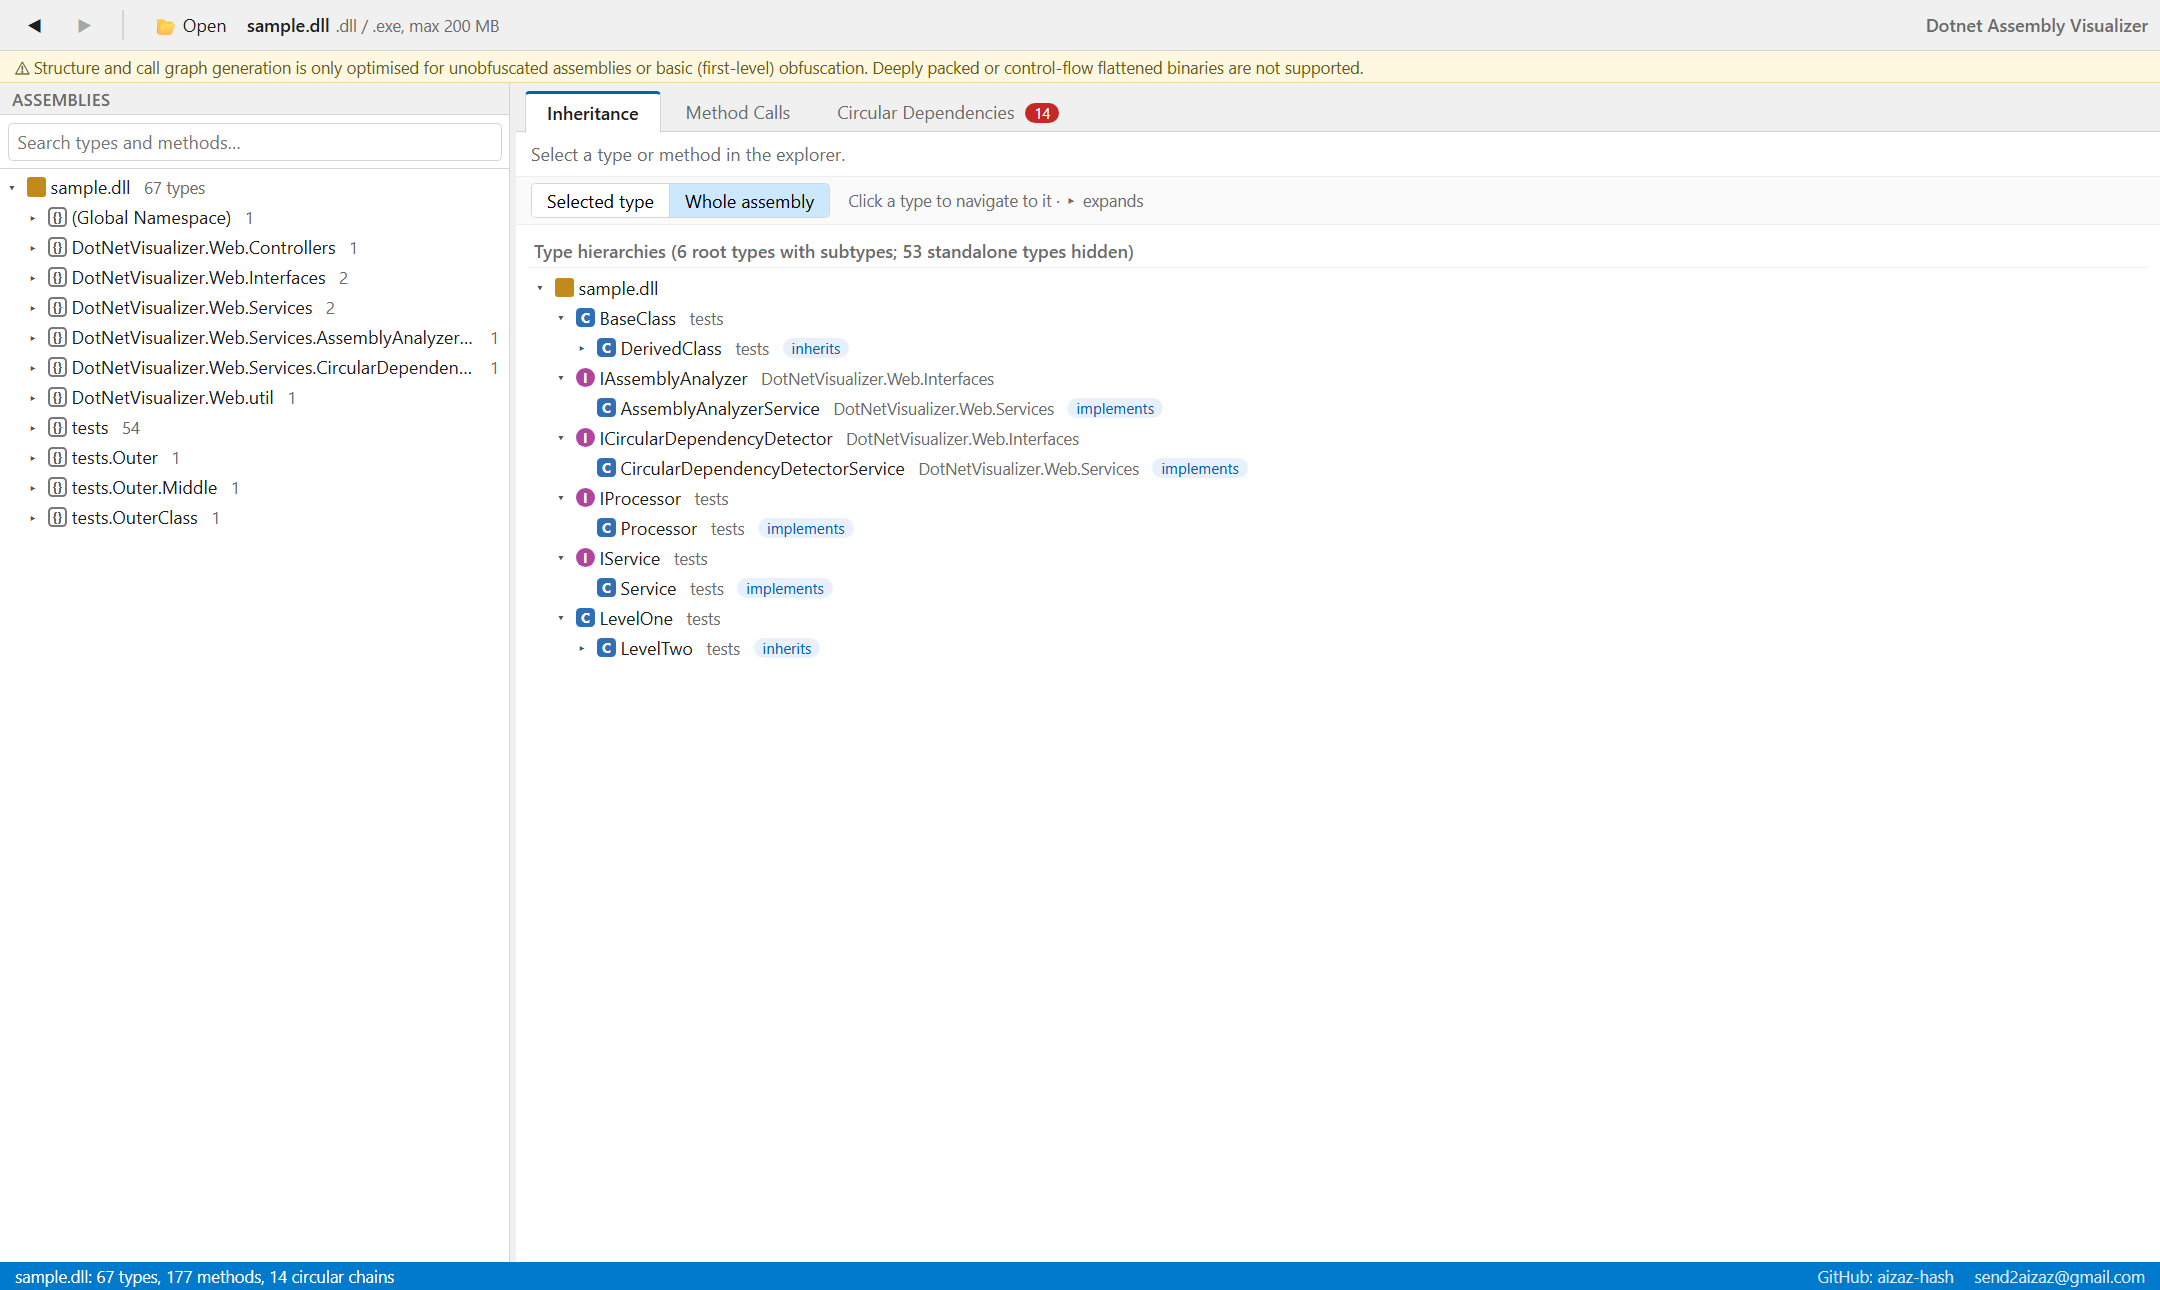
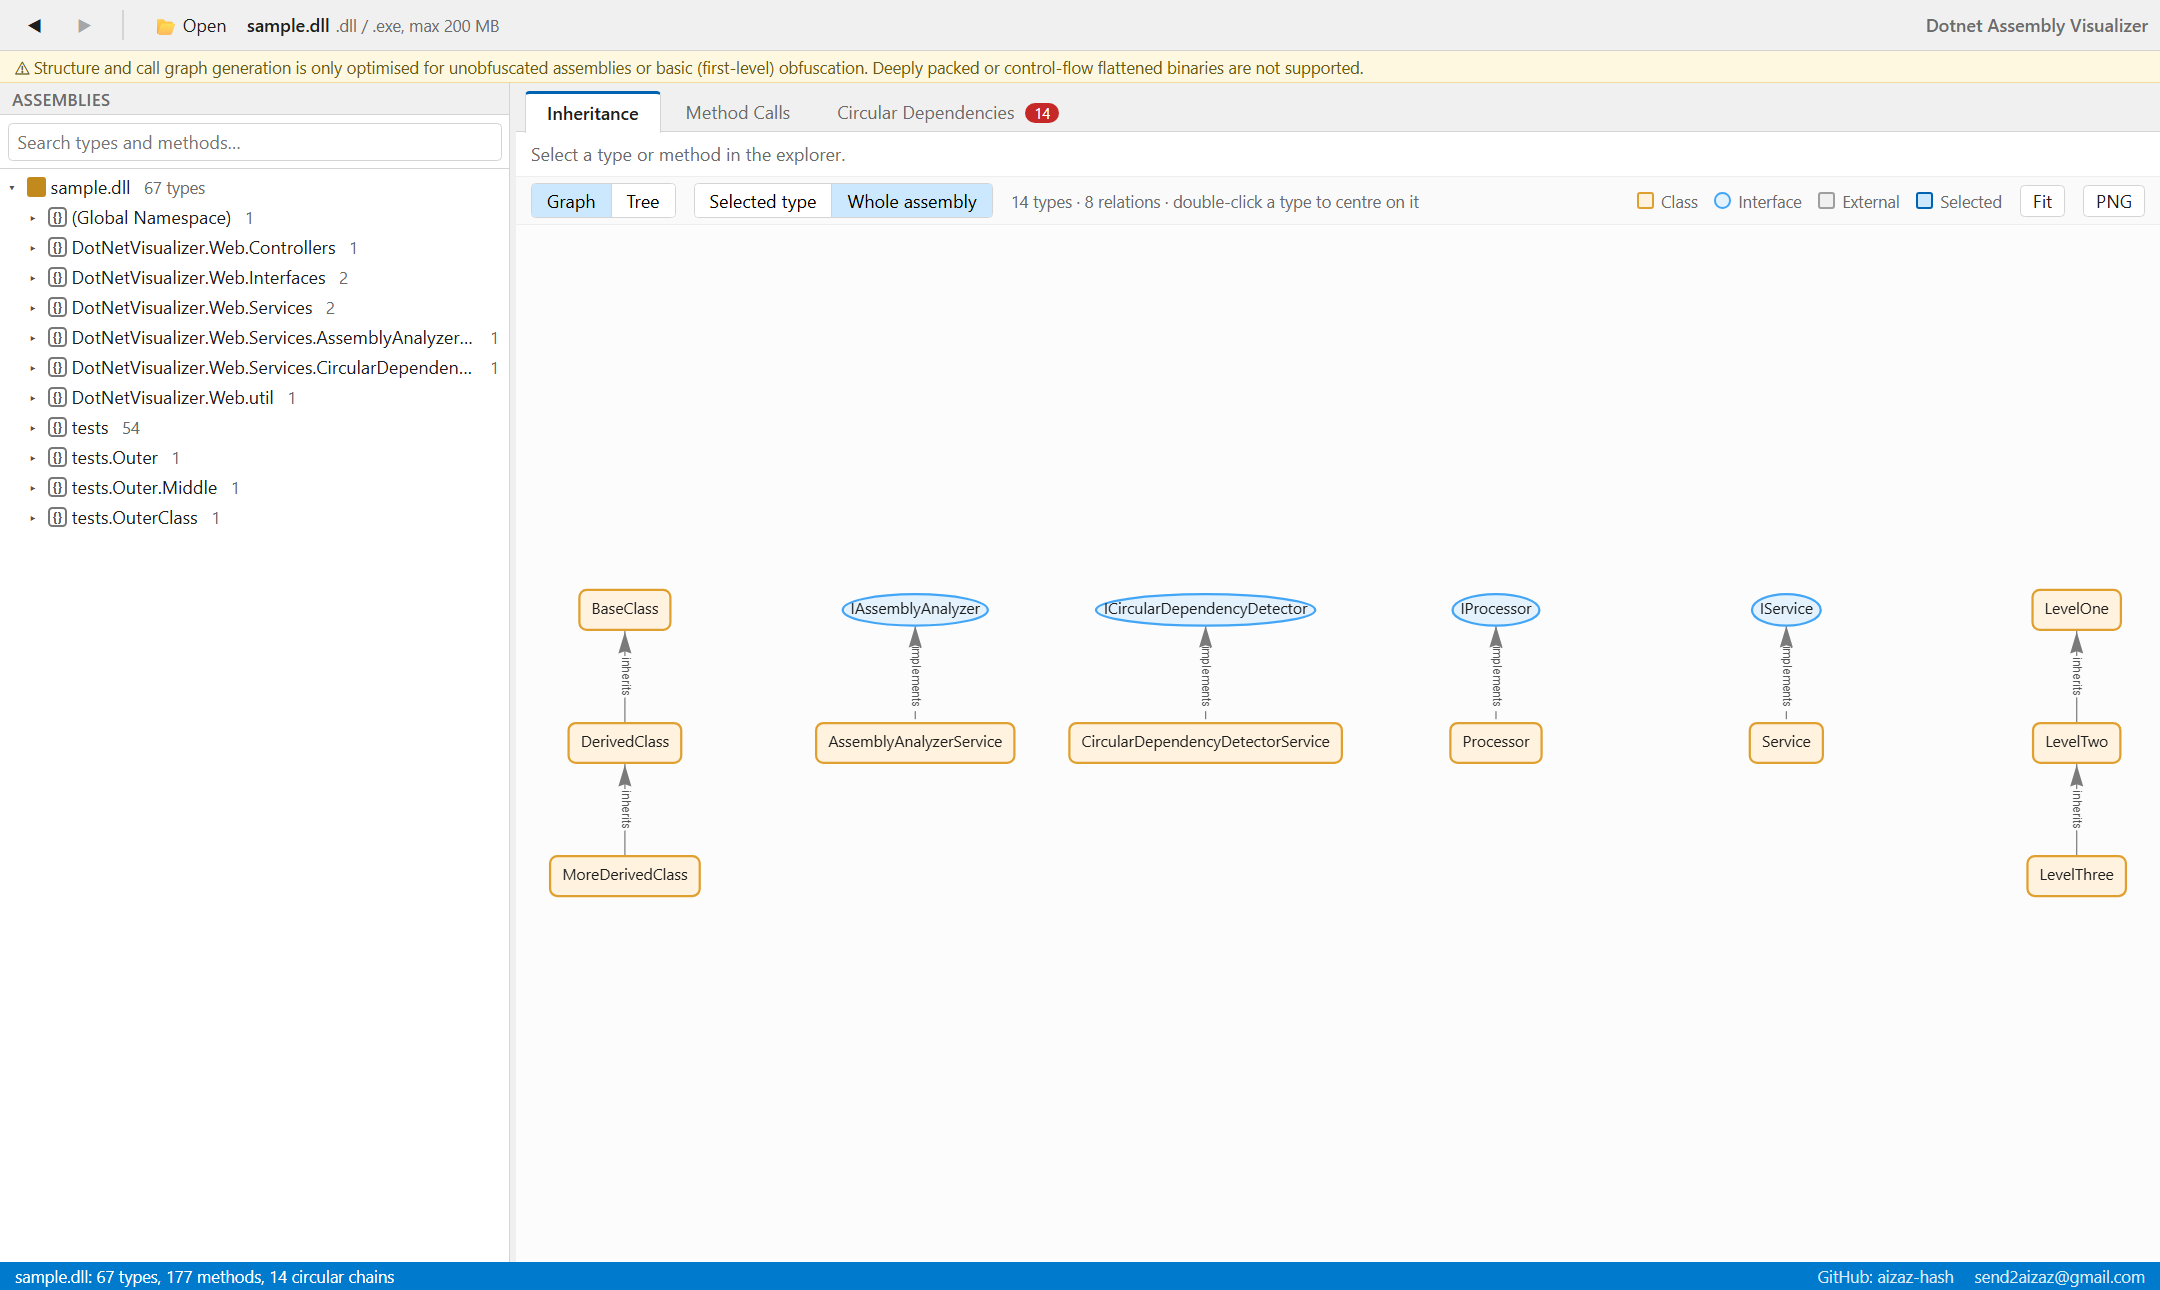
feat(ui): bring back the inheritance graph (Graph/Tree toggle)
The ILSpy-style redesign had replaced the vis-network inheritance graph with a tree. The inheritance view now draws a graph again: selected type with base types above and derived types below (depth 1-all), or the whole assembly (capped at 300 types), interfaces as ellipses, implements edges dashed, double-click to centre, Fit/PNG. The tree stays available via a toggle.
README text and the inheritance screenshots are updated.

diff --git a/wwwroot/js/app.js b/wwwroot/js/app.js
@@ -34,13 +34,15 @@ let cyclesOfMethod = new Map();    // methodId -> [cycle index]
 let cyclicEdges = new Set();       // "from\u0001to"
 
 // Navigation state
-let state = { view: 'inheritance', type: null, method: null, cycleMethod: null, cycleIdx: 0, inhMode: 'selected' };
+let state = { view: 'inheritance', type: null, method: null, cycleMethod: null, cycleIdx: 0, inhMode: 'selected', inhFormat: 'graph' };
 let history = [];
 let historyIdx = -1;
 
 // Graph instances
 let callNetwork = null;
 let cycleNetwork = null;
+let inhNetwork = null;
+const INH_MAX_NODES = 300;
 let chips = [];
 let explorerNodes = new Map();     // key -> tree handle
 let selectedExplorerKey = null;
@@ -408,7 +410,7 @@ function renderSearchResults(query) {
 
 function sameState(a, b) {
     return a.view === b.view && a.type === b.type && a.method === b.method &&
-        a.cycleMethod === b.cycleMethod && a.cycleIdx === b.cycleIdx && a.inhMode === b.inhMode;
+        a.cycleMethod === b.cycleMethod && a.cycleIdx === b.cycleIdx && a.inhMode === b.inhMode && a.inhFormat === b.inhFormat;
 }
 
 function navigate(patch, push = true) {
@@ -443,6 +445,8 @@ function applyState() {
     });
     byId('inhModeSelected').classList.toggle('active', state.inhMode === 'selected');
     byId('inhModeAll').classList.toggle('active', state.inhMode === 'all');
+    byId('inhFmtGraph').classList.toggle('active', state.inhFormat === 'graph');
+    byId('inhFmtTree').classList.toggle('active', state.inhFormat === 'tree');
 
     revealInExplorer(state.method ? 'm:' + state.method : (state.type ? 't:' + state.type : null));
     renderTitle();
@@ -507,7 +511,123 @@ function inheritanceOpt(ref, direction, ancestors) {
     });
 }
 
+// ---------- inheritance: graph ----------
+
+function inhNodeStyle(id, selected) {
+    const t = typeNodes.get(id);
+    const iface = !!t && t.type === 'Interface';
+    const external = !t;
+    let color = iface
+        ? { background: '#e3f2fd', border: '#42a5f5', highlight: { background: '#cfe8fc', border: '#1e88e5' } }
+        : { background: '#fff3e0', border: '#e0a030', highlight: { background: '#ffe8c2', border: '#c07f10' } };
+    if (external) color = { background: '#f0f0f0', border: '#9e9e9e', highlight: { background: '#e4e4e4', border: '#757575' } };
+    if (selected) color = { background: iface ? '#cfe8fc' : '#cce8ff', border: '#0063b1', highlight: { background: '#b9ddfb', border: '#004a85' } };
+    return {
+        id, label: t ? t.name : shortName(id), shape: iface ? 'ellipse' : 'box', margin: 10,
+        borderWidth: selected ? 3 : 1.5, color,
+        font: { face: 'Segoe UI, sans-serif', size: 13, color: external ? '#6b6b6b' : '#1e1e1e' },
+        title: `${id}${external ? '\n(not in this assembly)' : ''}`
+    };
+}
+
+function renderInheritanceGraph() {
+    const canvas = byId('inhCanvas');
+    canvas.innerHTML = '';
+    byId('inhHint').textContent = '';
+
+    if (!hasAssembly) { canvasMessage(canvas, 'Upload a .NET assembly to begin: click "Open" or drop a .dll file anywhere on this page.'); return; }
+
+    const levels = new Map();   // typeId -> level (negative = base types above, positive = derived types below)
+    let truncated = false;
+    const add = (id, lvl) => {
+        if (levels.has(id)) return false;
+        if (levels.size >= INH_MAX_NODES) { truncated = true; return false; }
+        levels.set(id, lvl);
+        return true;
+    };
+
+    if (state.inhMode === 'all') {
+        const roots = [];
+        typeNodes.forEach((t, id) => {
+            if (!nsOf.has(id)) return;
+            const hasBase = (basesOf.get(id) || []).some(b => typeNodes.has(b.id));
+            if (!hasBase && (derivedOf.get(id) || []).length) roots.push(id);
+        });
+        roots.sort((a, b) => typeNodes.get(a).name.localeCompare(typeNodes.get(b).name));
+        let frontier = [];
+        roots.forEach(r => { if (add(r, 0)) frontier.push(r); });
+        for (let d = 1; frontier.length && d <= 20; d++) {
+            const next = [];
+            frontier.forEach(id => (derivedOf.get(id) || []).forEach(c => { if (typeNodes.has(c.id) && add(c.id, d)) next.push(c.id); }));
+            frontier = next;
+        }
+        if (levels.size === 0) { canvasMessage(canvas, 'No type in this assembly derives from or implements another type of the same assembly.'); return; }
+    } else {
+        if (!state.type) { canvasMessage(canvas, 'Select a type in the explorer to draw its inheritance graph.'); return; }
+        const depth = parseInt(byId('inhDepth').value, 10);
+        levels.set(state.type, 0);
+        let up = [state.type], down = [state.type];
+        for (let d = 1; d <= depth && (up.length || down.length); d++) {
+            const nu = [], nd = [];
+            up.forEach(id => (basesOf.get(id) || []).forEach(b => { if (add(b.id, -d)) nu.push(b.id); }));
+            down.forEach(id => (derivedOf.get(id) || []).forEach(c => { if (add(c.id, d)) nd.push(c.id); }));
+            up = nu; down = nd;
+        }
+    }
+
+    const nodes = [], edges = [];
+    levels.forEach((lvl, id) => {
+        const n = inhNodeStyle(id, state.inhMode !== 'all' && id === state.type);
+        n.level = lvl;
+        nodes.push(n);
+    });
+    levels.forEach((_, id) => (basesOf.get(id) || []).forEach(b => {
+        if (!levels.has(b.id)) return;
+        const implementsRel = !!b.relation && b.relation.toLowerCase() === 'implements';
+        edges.push({
+            from: id, to: b.id, arrows: 'to',
+            label: b.relation ? b.relation.toLowerCase() : undefined,
+            dashes: implementsRel ? [6, 4] : false,
+            color: { color: '#7a7a7a', highlight: '#333' },
+            font: { size: 10, color: '#555', strokeWidth: 3, strokeColor: '#fcfcfc', align: 'middle' },
+            smooth: { enabled: true, type: 'cubicBezier', forceDirection: 'vertical', roundness: 0.5 }
+        });
+    }));
+
+    byId('inhHint').textContent = `${nodes.length} types · ${edges.length} relations` +
+        (truncated ? ` · limited to ${INH_MAX_NODES} types - use "Selected type" for the full picture` : ' · double-click a type to centre on it');
+
+    const options = {
+        layout: { hierarchical: { enabled: true, direction: 'UD', sortMethod: 'directed', levelSeparation: 110, nodeSpacing: 240, treeSpacing: 240, blockShifting: true, edgeMinimization: true, parentCentralization: true } },
+        physics: false,
+        interaction: { hover: true, tooltipDelay: 200 },
+        edges: { selectionWidth: 2 }
+    };
+    inhNetwork = new vis.Network(canvas, { nodes, edges }, options);
+    inhNetwork.once('afterDrawing', () => inhNetwork && inhNetwork.fit({ animation: false }));
+    inhNetwork.on('click', (p) => { if (p.nodes.length) setStatus(p.nodes[0]); });
+    inhNetwork.on('doubleClick', (p) => {
+        if (!p.nodes.length) return;
+        const id = p.nodes[0];
+        if (!typeNodes.has(id)) { showMessage('That type is outside the analysed assembly.', 'info'); return; }
+        navigate({ view: 'inheritance', inhMode: 'selected', type: id, method: null });
+    });
+}
+
 function renderInheritance() {
+    if (inhNetwork) { inhNetwork.destroy(); inhNetwork = null; }
+    const graph = state.inhFormat !== 'tree';
+    byId('inhGraphWrap').style.display = graph ? 'block' : 'none';
+    byId('inheritanceBody').style.display = graph ? 'none' : 'block';
+    byId('inhLegend').style.display = graph ? 'flex' : 'none';
+    byId('btnFitInh').style.display = graph ? 'inline-block' : 'none';
+    byId('btnExportInh').style.display = graph ? 'inline-block' : 'none';
+    byId('inhDepthLabel').style.display = (graph && state.inhMode !== 'all') ? 'flex' : 'none';
+    if (graph) { byId('inhHint').textContent = ''; renderInheritanceGraph(); }
+    else { byId('inhHint').textContent = 'Click a type to navigate to it · ▸ expands'; renderInheritanceTree(); }
+}
+
+function renderInheritanceTree() {
     const body = byId('inheritanceBody');
     body.innerHTML = '';
     if (!hasAssembly) { body.appendChild(el('div', 'empty-note', 'Upload a .NET assembly to begin: click "Open" or drop a .dll file anywhere on this page.')); return; }
@@ -717,12 +837,12 @@ function renderCalls() {
 }
 
 function fitCallGraph() {
-    const net = state.view === 'cycles' ? cycleNetwork : callNetwork;
+    const net = state.view === 'cycles' ? cycleNetwork : (state.view === 'inheritance' ? inhNetwork : callNetwork);
     if (net) net.fit({ animation: { duration: 300 } });
 }
 
 function exportGraphPng() {
-    const canvas = document.querySelector(state.view === 'cycles' ? '#cycleCanvas canvas' : '#callCanvas canvas');
+    const canvas = document.querySelector(state.view === 'cycles' ? '#cycleCanvas canvas' : (state.view === 'inheritance' ? '#inhCanvas canvas' : '#callCanvas canvas'));
     if (!canvas) { showMessage('Nothing to export yet - draw a graph first.', 'info'); return; }
     const out = document.createElement('canvas');
     out.width = canvas.width; out.height = canvas.height;
@@ -894,7 +1014,7 @@ function activateAssembly(name) {
     badge.textContent = String(cycles.length);
     badge.classList.toggle('has', cycles.length > 0);
 
-    state = { view: 'inheritance', type: null, method: null, cycleMethod: null, cycleIdx: 0, inhMode: state.inhMode };
+    state = { view: 'inheritance', type: null, method: null, cycleMethod: null, cycleIdx: 0, inhMode: state.inhMode, inhFormat: state.inhFormat };
     history = [{ ...state }];
     historyIdx = 0;
     buildExplorer();
@@ -973,6 +1093,11 @@ document.querySelectorAll('.tab').forEach(tab => tab.addEventListener('click', (
 }));
 byId('inhModeSelected').onclick = () => navigate({ inhMode: 'selected' });
 byId('inhModeAll').onclick = () => navigate({ inhMode: 'all' });
+byId('inhFmtGraph').onclick = () => navigate({ inhFormat: 'graph' });
+byId('inhFmtTree').onclick = () => navigate({ inhFormat: 'tree' });
+byId('inhDepth').addEventListener('change', () => { if (state.view === 'inheritance') renderInheritance(); });
+byId('btnFitInh').onclick = fitCallGraph;
+byId('btnExportInh').onclick = exportGraphPng;
 
 byId('btnBack').onclick = () => goHistory(-1);
 byId('btnForward').onclick = () => goHistory(+1);

diff --git a/wwwroot/index.html b/wwwroot/index.html
@@ -65,13 +65,31 @@
 
             <section id="viewInheritance" class="view">
                 <div class="view-toolbar">
+                    <div class="seg" title="How to draw the hierarchy">
+                        <button id="inhFmtGraph" class="seg-btn active">Graph</button>
+                        <button id="inhFmtTree" class="seg-btn">Tree</button>
+                    </div>
                     <div class="seg">
                         <button id="inhModeSelected" class="seg-btn active">Selected type</button>
                         <button id="inhModeAll" class="seg-btn">Whole assembly</button>
                     </div>
-                    <span class="view-hint">Click a type to navigate to it · ▸ expands</span>
+                    <label id="inhDepthLabel">Depth
+                        <select id="inhDepth">
+                            <option value="1">1</option>
+                            <option value="2">2</option>
+                            <option value="3" selected>3</option>
+                            <option value="5">5</option>
+                            <option value="10">all</option>
+                        </select>
+                    </label>
+                    <span id="inhHint" class="view-hint"></span>
+                    <span class="tb-spacer"></span>
+                    <span id="inhLegend" class="legend-inline"><i class="lg lg-class"></i>Class <i class="lg lg-iface"></i>Interface <i class="lg lg-ext"></i>External <i class="lg lg-sel"></i>Selected</span>
+                    <button id="btnFitInh" class="tb-btn small" title="Zoom to fit">Fit</button>
+                    <button id="btnExportInh" class="tb-btn small" title="Download as PNG">PNG</button>
                 </div>
-                <div id="inheritanceBody" class="scroll-body"></div>
+                <div id="inhGraphWrap" class="canvas-wrap"><div id="inhCanvas"></div></div>
+                <div id="inheritanceBody" class="scroll-body" style="display:none;"></div>
             </section>
 
             <section id="viewCalls" class="view">

diff --git a/wwwroot/css/styles.css b/wwwroot/css/styles.css
@@ -234,3 +234,8 @@ body.dragging #dropOverlay { display: flex; }
     #cycleLayout { flex-direction: column; }
     #cycleList { width: 100%; max-height: 38%; border-right: none; border-bottom: 1px solid var(--chrome-border); }
 }
+
+/* inheritance graph */
+#inhCanvas { position: absolute; inset: 0; }
+.lg-class { background: #fff3e0; border-color: #e0a030; }
+.lg-iface { background: #e3f2fd; border-color: #42a5f5; border-radius: 50%; }

diff --git a/README.md b/README.md
@@ -1,6 +1,6 @@
 # .NET Assembly Visualizer
 
-Explore the architecture of a .NET assembly in seconds - inheritance trees, method call graphs and circular call chains - without loading or running the assembly.
+Explore the architecture of a .NET assembly in seconds - inheritance graphs, method call graphs and circular call chains - without loading or running the assembly.
 
 I built this tool because I was tired of staring at massive, unreadable dependency graphs when trying to understand how the parts of a complex .NET assembly talk to each other. It reads the DLL binary directly (`System.Reflection.Metadata` plus IL scanning), so there is no runtime overhead and no slow loading.
 
@@ -28,13 +28,13 @@ I built this tool because I was tired of staring at massive, unreadable dependen
 
 ### Assembly explorer and inheritance view
 
-An ILSpy-style explorer on the left (assembly → namespaces → types → base types, derived types and methods) with search and Back / Forward navigation. The **Inheritance** tab shows the selected type's base types, interfaces and derived types as an expandable tree; click any type to navigate to it.
+An ILSpy-style explorer on the left (assembly → namespaces → types → base types, derived types and methods) with search and Back / Forward navigation. The **Inheritance** tab draws the selected type's base types, interfaces and derived types as an interactive **graph** (bases above, derived types below, dashed lines for interface implementations). Use *Depth* to control how many levels are shown, double-click a type to centre the graph on it, and use *Fit* or *PNG* to zoom or export. A **Tree** toggle switches to an expandable list of the same relationships if you prefer it.
 
-![Inheritance tree for a type](docs/images/v2-inheritance.png)
+![Inheritance graph for a type](docs/images/v2-inheritance.png)
 
-The **Whole assembly** mode lists every type hierarchy in the assembly. Nodes expand lazily, so large assemblies stay compact.
+The **Whole assembly** mode draws every type hierarchy of the assembly in one graph (capped at 300 types for readability; the tree view lists all of them and expands lazily).
 
-![Whole-assembly type hierarchy](docs/images/v2-all.png)
+![Whole-assembly inheritance graph](docs/images/v2-all.png)
 
 ### Method calls
 
@@ -101,7 +101,7 @@ Then open **http://localhost:8080**. (To run the `v2` line, `git checkout v2` fi
 |---|---|
 | **Toolbar** | *Open* an assembly, switch between loaded assemblies, Back / Forward (Alt+Left / Alt+Right). |
 | **Explorer** | Browse namespaces, types and methods; search for types and methods; methods in a circular chain carry a red ⚠. |
-| **Inheritance** | Base types, interfaces and derived types of the selected type, or the whole assembly. |
+| **Inheritance** | Graph (or tree) of base types, interfaces and derived types for the selected type, or for the whole assembly; adjustable depth. |
 | **Method Calls** | Callers and callees of the selected method; adjustable depth; merged nodes and edges. |
 | **Circular Dependencies** | Every distinct circular call chain, grouped by class; filter to a single method; click to jump to its call graph. |
 
